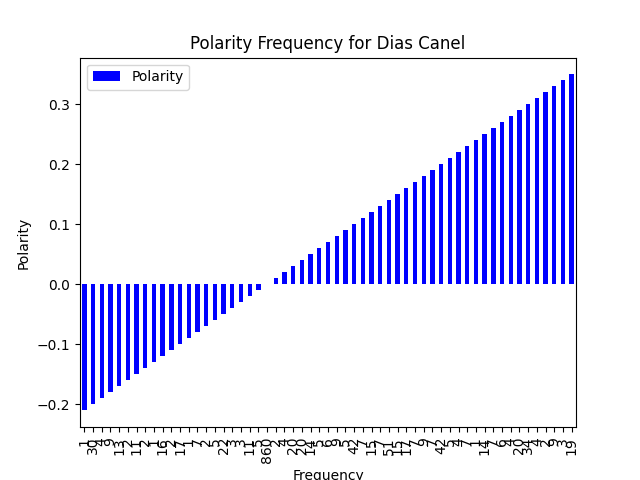
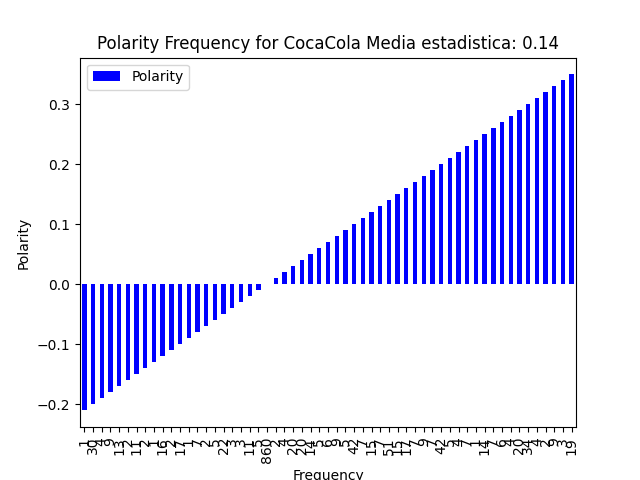
change architec to MVC

Changed region(s): [[0.1562, 0.0625, 0.875, 0.125]]

diff --git a/tweets/tweets_handler.py b/tweets/tweets_handler.py
@@ -14,12 +14,47 @@ from collections import Counter
 
 from tweets.translate import TranslateGoogle
 
+from wordcloud import WordCloud
+
+from model.mysql_connector import MysqlConnector
+from tweets.tweets_snscrape import SnscrapeTwiteer
+
 
 class Tweets:
 
     def __init__(self) -> None:
 
         self.translator = TranslateGoogle()
+        self.sn_twitter = SnscrapeTwiteer()
+        self.mysql_connector = MysqlConnector()
+
+    def get_by_query(self, table="TT", query="Some", cant=100, since='', until=''):
+
+
+        tweet_list = []
+        sn_twitter = self.sn_twitter.get_by_query(
+            query="Some",  since=since, until=until)
+
+        tweet_list = self.build_tweet_list(table, sn_twitter,  cant)
+
+        self.mysql_connector.connect()
+        self.mysql_connector.create_tweet_table(table=table)
+        self.mysql_connector.insert_tweet_on_table(table=table,tweets=tweet_list)
+        self.mysql_connector.close()
+
+        print("Tweets importados")
+
+    def build_tweet_list(self, table, query_sn, cant):
+
+        for i, tweet in query_sn:
+            if i >= cant:  # max k number of tweets
+                break
+
+            if self.mysql_connector.tweet_en_bd(table=table, tweet_id=tweet[0]) is None:
+                tweet_list = self.tweet_process(
+                    tweet_list, tweet)
+
+        return tweet_list
 
     def tweet_process(self, tweet_list, tweet):
 
@@ -81,15 +116,28 @@ class Tweets:
         return polarity, subjectivity
 
     # Obtener las palabras más utilizadas en los tweets
-    def get_most_used_words(self, tweets_list, cant):
+    def get_most_used_words(self, content_tweets_list, cant, img_src):
+
         words = []
 
-        for tweet in tweets_list:
-
-            words += tweet[2].split()
+        for tweet in content_tweets_list:
+            for text in tweet:
+                for word in text.split(" "):
+                    words.append(word)
 
         word_counts = Counter(words)
         top_words = word_counts.most_common(cant)
+
+        cloud = {}
+        for word_a, frec_a in top_words:
+            cloud[word_a] = frec_a
+
+        word_cloud = WordCloud(
+            collocations=False, background_color="white").generate_from_frequencies(cloud)
+
+        plt.imshow(word_cloud, interpolation='bilinear')
+        plt.axis("off")
+        plt.savefig(img_src)
 
         return top_words
 
@@ -118,9 +166,10 @@ class Tweets:
         Q1 = dataframe.quantile(0.25)
         Q3 = dataframe.quantile(0.75)
         IQR = Q3-Q1
-        dataframe = dataframe[~((dataframe < (Q1-1.5 * IQR)) | (dataframe > (Q3 + 1.5 * IQR))).any(axis=1)]
+        dataframe = dataframe[~(
+            (dataframe < (Q1-1.5 * IQR)) | (dataframe > (Q3 + 1.5 * IQR))).any(axis=1)]
         dataframe.shape
-        
+
         # Count frecuency
         dataframe_df = dataframe.groupby(
             column).size().reset_index(name="counts")
@@ -128,7 +177,8 @@ class Tweets:
         # Plot the frequency of each sentiment
         dataframe_df.plot(kind=kind, x="counts", y=column, color="blue")
 
-        plt.title(column + " Frequency for " + title)
+        plt.title(column + " Frequency for " + title +
+                  " Media estadistica: " + str(IQR[0]))
         plt.xlabel("Frequency")
         plt.ylabel(column)
         plt.savefig(img_src)

diff --git a/model/mysql_connector.py b/model/mysql_connector.py
@@ -37,10 +37,10 @@ class MysqlConnector:
             self.cnx.close()
             print("MySQL connection is closed")
 
-    def create_tweet_table(self):
+    def create_tweet_table(self, table="tweets"):
 
-        self.TABLA_TWEETS = """
-CREATE TABLE tweets (
+        self.TABLA_TWEETS = f"""
+CREATE TABLE {table} (
   Id NUMERIC(30) UNSIGNED NOT NULL,
   Date DATE NOT NULL,
   Content TEXT NOT NULL,
@@ -61,18 +61,18 @@ CREATE TABLE tweets (
             print("Tabla creada correctamente")
 
 
-    def insert_tweet_on_table(self, tweets):
+    def insert_tweet_on_table(self, table="tweets", tweets=[]):
         
         cant_tweet_insertados = 0
         cant_tweet_repetidos = 0
 
-        sql = "INSERT INTO tweets (Id, Date, Content, Impact, Polarity, Objective) VALUES (%s, %s, %s, %s, %s, %s)"
+        sql = f"INSERT INTO {table} (Id, Date, Content, Impact, Polarity, Objective) VALUES (%s, %s, %s, %s, %s, %s)"
  
         cursor = self.cnx.cursor()
 
         for tweet in tweets:
             
-            if self.tweet_en_bd(tweet[0]) is not None:
+            if self.tweet_en_bd(table=table, tweet_id=tweet[0]) is None:
                 # Inserción de un nuevo tweet
                 val = (tweet[0], tweet[1], tweet[2], tweet[3], tweet[4], tweet[5])
                     
@@ -90,11 +90,11 @@ CREATE TABLE tweets (
         print(cant_tweet_repetidos, " registros repetidos.")
                 
       
-    def tweet_en_bd(self, tweet_id):
+    def tweet_en_bd(self, table="", tweet_id=0):
         cursor = self.cnx.cursor()
 
         # ejecutar la consulta para verificar si el tweet existe
-        consulta = f"SELECT * FROM tweets WHERE Id = {tweet_id}"
+        consulta = f"SELECT * FROM {table} WHERE Id = {tweet_id}"
         
         try:
             cursor.execute(consulta)
@@ -108,12 +108,12 @@ CREATE TABLE tweets (
         return resultado
     
     # (Id, Date, Content, Impact, Polarity, Objective) 
-    def get_tweet_timelapse_bd(self, columns='*', since='', until='') -> list:
+    def get_tweet_timelapse_bd(self, table="", columns='*', since='', until='') -> list:
         
         cursor = self.cnx.cursor()
 
         # ejecutar la consulta para verificar si el tweet existe
-        consulta = f"SELECT {columns} FROM tweets WHERE Date >= \"{since}\" and Date <= \"{until}\" "
+        consulta = f"SELECT {columns} FROM {table} WHERE Date >= \"{since}\" and Date <= \"{until}\" "
 
         try:
             cursor.execute(consulta)

diff --git a/main.py b/main.py
@@ -1,39 +1,36 @@
 #!/bin/python3
 
 import datetime
-
-from model.mysql_connector import MysqlConnector
-from tweets.tweets_snscrape import SnscrapeTwiteer
 from tweets.tweets_handler import Tweets
 
-sn = SnscrapeTwiteer()
+
 tweet_handler = Tweets()
 
 #Id, Date, Content, Impact, Polarity, Objective
 query = "CocaCola"
-data = 'Polarity'
-max_retrieve_tweets = 100
+table = query.replace(" ","_")
+max_retrieve_tweets = 10
+
 startDate = datetime.datetime(2023, 1, 1)
 stopDate = datetime.datetime(2023, 3, 31)
 
-tweets = sn.get_by_query( query, max_retrieve_tweets, since=startDate, until=stopDate)
 
-#tweet_handler.tweet_to_json(tweets, 'util/file.json')
-
-print(tweet_handler.get_most_used_words(tweets, 10 ))
-
-msql = MysqlConnector()
-msql.connect()
-#msql.create_tweet_table()
-#msql.insert_tweet_on_table(tweets)
+tweet_handler.get_by_query(query=query, cant=max_retrieve_tweets, since=startDate.isoformat(), until=stopDate.isoformat())
 
 
 
-tweets = msql.get_tweet_timelapse_bd(columns=data, since=startDate, until=stopDate)
 
-tweet_df = tweet_handler.tweet_to_json(tweets, "con.json", columns=[data])
 
-IQR = tweet_handler.get_tweet_data_frecuency(tweet_df, data, query, "bar", "util/chart_data.png")
-print(IQR)
+data = 'Content'
+tweets = msql.get_tweet_timelapse_bd(table=table, columns=data, since=startDate, until=stopDate)
+tweet_handler.get_most_used_words(tweets, 20, "util/common_words.png")
+
+
+data = 'Polarity'
+tweets = msql.get_tweet_timelapse_bd(table=table, columns=data, since=startDate, until=stopDate)
+
+tweet_df = tweet_handler.tweet_to_json(tweets, "util/data.json", columns=[data])
+
+tweet_handler.get_tweet_data_frecuency(tweet_df, data, query, "bar", "util/chart_data.png")
 
 msql.close()

diff --git a/tweets/tweets_snscrape.py b/tweets/tweets_snscrape.py
@@ -1,15 +1,11 @@
 
 from snscrape.modules.twitter import TwitterSearchScraper
-from tweets.tweets_handler import Tweets
 
 class SnscrapeTwiteer:
     def __init__(self) -> None:
+        pass
         
-        self.tweet_handler = Tweets()
-
-    def get_by_user(self, user, cant):
-
-        tweet_list = []
+    def get_by_user(self, user='AthemAl', cant=0):
 
         try:
             query_sn = enumerate(TwitterSearchScraper(
@@ -18,20 +14,10 @@ class SnscrapeTwiteer:
         except:
             print("Some error in connection to twiter")
 
-        
-        for i, tweet in query_sn:
-            if i >= cant:  # max k number of tweets
-                break
-
-            tweet_list = self.tweet_handler.tweet_process(tweet_list, tweet)
-
-        
-        return tweet_list
+        return query_sn
 
         # COVID Vaccine since:2021-01-01 until:2021-05-31
-    def get_by_query(self, query, cant, since='', until=''):
-
-        tweet_list = []
+    def get_by_query(self, query="Some", since='', until=''):
 
         try:
             query_sn = enumerate(TwitterSearchScraper(
@@ -40,11 +26,4 @@ class SnscrapeTwiteer:
         except:
             print("Some error in connection to twiter")
 
-        for i, tweet in query_sn:
-            if i >= cant:  # max k number of tweets
-                break
-
-            tweet_list = self.tweet_handler.tweet_process(tweet_list, tweet)
-
-        return tweet_list
-
+        return query_sn
